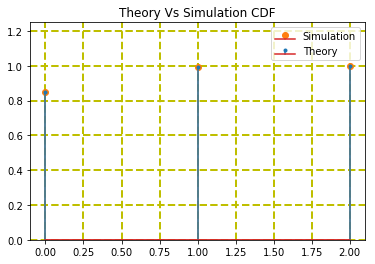
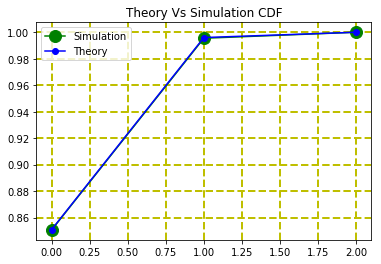
Code and plot modifications

diff --git a/Assignment-5/Codes/MiscellaneousDistributions_5_31.py b/Assignment-5/Codes/MiscellaneousDistributions_5_31.py
@@ -9,33 +9,41 @@ import numpy as np
 from scipy.stats import bernoulli
     
 def sim():
+    np.random.seed(0)
     n_rvs = 3
     mean = 34/221
     std = np.sqrt(6800/48841)
-    p_x = np.array([188/221, 32/221, 1/221])
-    sim_len = int(1e6)
-    sim_bern_arr = np.zeros(shape=(n_rvs, sim_len), dtype=float)
-    sim_counter = np.zeros(shape=n_rvs, dtype=float)
+    p_x = np.array([np.float64(188/221), np.float64(32/221), np.float64(1/221)])
+    sim_len = int(1e9)
+    sim_counter = np.zeros(shape=n_rvs, dtype=int)
     sim_pmf = np.zeros(shape=n_rvs, dtype=float)
     sim_cdf = np.zeros(shape=n_rvs, dtype=float)
+    remain_samples = sim_len
     for i in range(n_rvs):
-        sim_bern_arr[i, :] = bernoulli.rvs(size=sim_len, p=p_x[i])
+        sim_bern_arr = bernoulli.rvs(size=remain_samples, p=p_x[i])    
+        sim_counter[i] = np.count_nonzero(sim_bern_arr==1)        
+        sim_pmf[i] = np.float64(sim_counter[i]/remain_samples)
+        remain_samples = remain_samples - sim_counter[i]
     
-    sim_counter = np.sum(sim_bern_arr, axis=1)
-    sim_pmf = sim_counter / sim_len
     sim_cdf = np.cumsum(sim_pmf)
     x = np.array([0, 1, 2])
     y1 = np.array([0.851, 0.145, 0.004])
     y2 = np.array([0.851, 0.996, 1.0])
-    plot(x, y1, sim_pmf, mean, std, 'blue', 'red', 'Theory Vs Simulation PMf')
+    print('The simulation PMf values are: ', np.round(sim_pmf, 3))
+    print('The CDF values are: ', np.round(sim_cdf, 3))
+    plot(x, y1, sim_pmf, mean, std, 'blue', 'red', 'Theory Vs Simulation PMf', False)
     print('\n\n')
-    plot(x, y2, sim_cdf, mean, std, 'yellow', 'black', 'Theory Vs Simulation CDF')
+    plot(x, y2, sim_cdf, mean, std, 'yellow', 'black', 'Theory Vs Simulation CDF', True)
 
-def plot(x, dist1, dist2, mean, std, col1, col2, t):    
-    plt.stem(x, dist2, linefmt='C1-', markerfmt='C1o', label='Simulation')
-    plt.stem(x, dist1, linefmt='C0-', markerfmt='C0.', label='Theory')
+def plot(x, dist1, dist2, mean, std, col1, col2, t, flag_):    
+    if flag_ is True:
+        plt.plot(x, dist2, color='green', marker='o', markersize=12, label='Simulation')
+        plt.plot(x, dist1, color='blue', marker='o', markersize=6, label='Theory')
+    else:
+        plt.stem(x, dist2, linefmt='C1-', markerfmt='C1o', label='Simulation')
+        plt.stem(x, dist1, linefmt='C0-', markerfmt='C0.', label='Theory')
+    
     plt.grid(color='y', linestyle='--', linewidth=2)
-    plt.ylim(0, 1.25)
     plt.legend()
     plt.title(t)
     plt.show()
